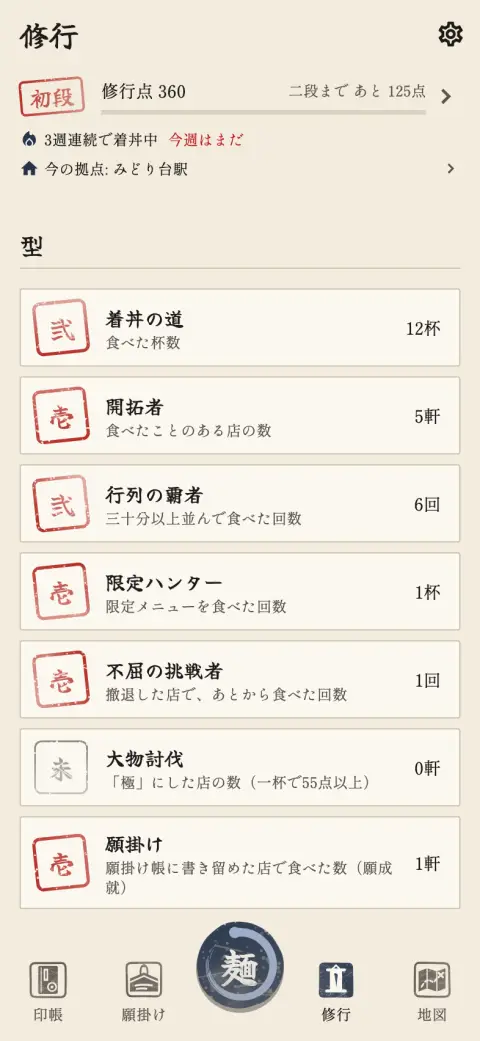
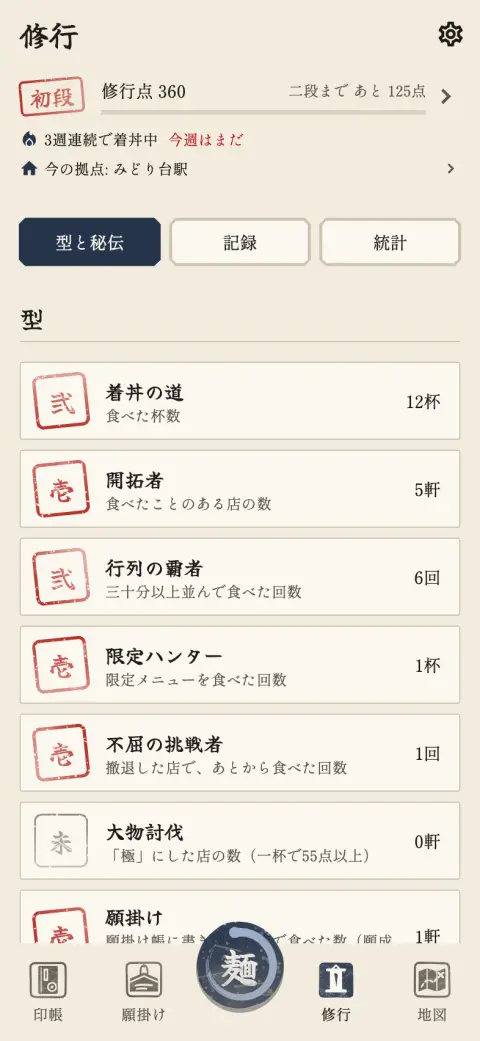
修行タブを段位と「型と秘伝｜記録｜統計」の切り替えにまとめる (#353)
* 修行タブを段位と「型と秘伝｜記録｜統計」の切り替えにまとめる

* セルフレビューの指摘を直す（選んだものを覚える範囲・使い方の題・部品を非公開に）

---------

diff --git a/lib/features/shugyo/shugyo_screen.dart b/lib/features/shugyo/shugyo_screen.dart
@@ -17,17 +17,24 @@ import '../streak/streak_line.dart';
 import '../analytics/analytics.dart';
 import '../analytics/analytics_events.dart';
 
-/// 修行の記録をひとまとめにした画面。段位 → 型と秘伝 → 数字の順に並べ、設定は右上の歯車から開く。
-class ShugyoScreen extends ConsumerWidget {
+/// 修行タブの下半分に出すもの。切り替えで1つだけを出す。
+enum _Section { quests, records, stats }
+
+/// 修行の記録をひとまとめにした画面。上に段位と、小さく連続記録・拠点。その下の切り替えで
+/// 型と秘伝・記録・統計のどれか1つを出す（画面は移らない）。選んだものは、アプリを開いている間だけ覚える。設定は右上の歯車から開く。
+class ShugyoScreen extends ConsumerStatefulWidget {
   const ShugyoScreen({super.key});
 
   @override
-  Widget build(BuildContext context, WidgetRef ref) {
-    final l10n = AppLocalizations.of(context);
-    void open(Widget screen) =>
-        Navigator.of(context)
-            .push(MaterialPageRoute<void>(builder: (_) => screen));
+  ConsumerState<ShugyoScreen> createState() => _ShugyoScreenState();
+}
 
+class _ShugyoScreenState extends ConsumerState<ShugyoScreen> {
+  var _section = _Section.quests;
+
+  @override
+  Widget build(BuildContext context) {
+    final l10n = AppLocalizations.of(context);
     return Scaffold(
       appBar: AppBar(
         title: Text(l10n.shugyoTitle),
@@ -41,30 +48,89 @@ class ShugyoScreen extends ConsumerWidget {
             rank: ref.watch(currentRankProvider),
           ),
           const StreakLine(),
-          const HealthyLifeCard(),
           const HomeBaseLine(),
-          const SizedBox(height: 24),
-          const QuestSections(),
-          const SizedBox(height: 32),
-          SectionTitle(l10n.shugyorokuTitle),
-          ListTile(
-            contentPadding: EdgeInsets.zero,
-            title: Text(l10n.shugyorokuOpen),
-            trailing: const Icon(Icons.chevron_right),
-            onTap: () {
-              logAnalytics(
-                context,
-                AnalyticsEvents.featureOpened('shugyoroku'),
-              );
-              open(const ShugyorokuScreen());
-            },
+          const SizedBox(height: 20),
+          _SectionSwitch(
+            selected: _section,
+            onSelected: (section) => setState(() => _section = section),
           ),
-          const PrefectureBookEntry(),
-          const YearReviewEntry(),
-          const SizedBox(height: 32),
-          const StatsSections(),
+          const SizedBox(height: 16),
+          switch (_section) {
+            _Section.quests => const QuestSections(),
+            _Section.records => const _RecordsSection(),
+            _Section.stats => const StatsSections(),
+          },
         ],
       ),
+    );
+  }
+}
+
+/// 「型と秘伝｜記録｜統計」の切り替え。選ぶ札（角を落とした木札）を同じ幅で横に並べる。
+class _SectionSwitch extends StatelessWidget {
+  const _SectionSwitch({required this.selected, required this.onSelected});
+
+  final _Section selected;
+  final ValueChanged<_Section> onSelected;
+
+  @override
+  Widget build(BuildContext context) {
+    final l10n = AppLocalizations.of(context);
+    return Row(
+      children: [
+        for (final (i, section) in _Section.values.indexed) ...[
+          if (i > 0) const SizedBox(width: 8),
+          Expanded(
+            child: ChoiceChip(
+              label: SizedBox(
+                width: double.infinity,
+                child: Text(
+                  switch (section) {
+                    _Section.quests => l10n.shugyoSectionQuests,
+                    _Section.records => l10n.shugyoSectionRecords,
+                    _Section.stats => l10n.shugyoSectionStats,
+                  },
+                  textAlign: TextAlign.center,
+                  maxLines: 1,
+                  overflow: TextOverflow.ellipsis,
+                ),
+              ),
+              selected: section == selected,
+              onSelected: (_) => onSelected(section),
+            ),
+          ),
+        ],
+      ],
+    );
+  }
+}
+
+/// 記録: 修行録・都道府県の印帳・年の振り返り・（出現していれば）毎日ラーメン健康生活。
+class _RecordsSection extends StatelessWidget {
+  const _RecordsSection();
+
+  @override
+  Widget build(BuildContext context) {
+    final l10n = AppLocalizations.of(context);
+    return Column(
+      crossAxisAlignment: CrossAxisAlignment.stretch,
+      children: [
+        SectionTitle(l10n.shugyorokuTitle),
+        ListTile(
+          contentPadding: EdgeInsets.zero,
+          title: Text(l10n.shugyorokuOpen),
+          trailing: const Icon(Icons.chevron_right),
+          onTap: () {
+            logAnalytics(context, AnalyticsEvents.featureOpened('shugyoroku'));
+            Navigator.of(context).push(
+              MaterialPageRoute<void>(builder: (_) => const ShugyorokuScreen()),
+            );
+          },
+        ),
+        const PrefectureBookEntry(),
+        const YearReviewEntry(),
+        const HealthyLifeCard(),
+      ],
     );
   }
 }

diff --git a/test/features/shugyo/shugyo_screen_test.dart b/test/features/shugyo/shugyo_screen_test.dart
@@ -1,0 +1,89 @@
+import 'package:flutter/material.dart';
+import 'package:flutter_riverpod/flutter_riverpod.dart';
+import 'package:flutter_test/flutter_test.dart';
+
+import 'package:ramen_in_cho/features/home_base/home_base_repository.dart';
+import 'package:ramen_in_cho/features/quests/quest_history_screen.dart';
+import 'package:ramen_in_cho/features/records/models.dart';
+import 'package:ramen_in_cho/features/records/record_repository.dart';
+import 'package:ramen_in_cho/features/scoring/rank_history_screen.dart';
+import 'package:ramen_in_cho/features/scoring/rank_progress.dart';
+import 'package:ramen_in_cho/features/shugyo/shugyo_screen.dart';
+import 'package:ramen_in_cho/features/wishes/wish_repository.dart';
+
+import '../../support/builders.dart';
+import '../../support/l10n.dart';
+
+void main() {
+  Future<void> pumpShugyo(
+    WidgetTester tester,
+    List<VisitWithShop> visits,
+  ) async {
+    tester.view.physicalSize = const Size(1080, 4800);
+    tester.view.devicePixelRatio = 2.5;
+    addTearDown(tester.view.reset);
+    await tester.pumpWidget(
+      ProviderScope(
+        overrides: [
+          visitsProvider.overrideWithValue(AsyncData(visits)),
+          homeBaseSettingsProvider.overrideWithValue(const AsyncData([])),
+          wishesProvider.overrideWithValue(const AsyncData([])),
+        ],
+        child: localizedApp(home: const ShugyoScreen()),
+      ),
+    );
+    await tester.pumpAndSettle();
+  }
+
+  final shop = buildShop(id: 'shop', name: '麺屋テスト');
+  final visits = [
+    for (var d = 1; d <= 6; d++)
+      buildEntry(shop: shop, eatenAt: DateTime(2026, 9, d, 12)),
+  ];
+
+  testWidgets('初めは型と秘伝を出し、切り替えで記録・統計だけを出す', (tester) async {
+    await pumpShugyo(tester, visits);
+
+    expect(find.text('着丼の道'), findsOneWidget);
+    expect(find.text(ja.shugyorokuOpen), findsNothing);
+    expect(find.text(ja.statsBowls), findsNothing);
+
+    await tester.tap(find.text(ja.shugyoSectionRecords));
+    await tester.pumpAndSettle();
+    expect(find.text('着丼の道'), findsNothing);
+    expect(find.text(ja.shugyorokuOpen), findsOneWidget);
+    expect(find.text(ja.statsBowls), findsNothing);
+    // 毎日ラーメン健康生活は、7日続けるまで姿を見せない。
+    expect(find.text(ja.healthyLifeTitle), findsNothing);
+
+    await tester.tap(find.text(ja.shugyoSectionStats));
+    await tester.pumpAndSettle();
+    expect(find.text(ja.shugyorokuOpen), findsNothing);
+    expect(find.text(ja.statsBowls), findsOneWidget);
+  });
+
+  testWidgets('7日続けて食べたら、記録に毎日ラーメン健康生活を出す', (tester) async {
+    await pumpShugyo(tester, [
+      for (var d = 1; d <= 7; d++)
+        buildEntry(shop: shop, eatenAt: DateTime(2026, 9, d, 12)),
+    ]);
+    expect(find.text(ja.healthyLifeTitle), findsNothing);
+    await tester.tap(find.text(ja.shugyoSectionRecords));
+    await tester.pumpAndSettle();
+    expect(find.text(ja.healthyLifeTitle), findsOneWidget);
+  });
+
+  testWidgets('段位を押すと昇段の記録、型のカードを押すとこれまでの段が開く', (tester) async {
+    await pumpShugyo(tester, visits);
+
+    await tester.tap(find.text('着丼の道'));
+    await tester.pumpAndSettle();
+    expect(find.byType(QuestHistoryScreen), findsOneWidget);
+    tester.state<NavigatorState>(find.byType(Navigator).first).pop();
+    await tester.pumpAndSettle();
+
+    await tester.tap(find.byType(RankProgress));
+    await tester.pumpAndSettle();
+    expect(find.byType(RankHistoryScreen), findsOneWidget);
+  });
+}

diff --git a/lib/l10n/app_localizations.dart b/lib/l10n/app_localizations.dart
@@ -2764,6 +2764,24 @@ abstract class AppLocalizations {
   /// **'修行'**
   String get shugyoTitle;
 
+  /// No description provided for @shugyoSectionQuests.
+  ///
+  /// In ja, this message translates to:
+  /// **'型と秘伝'**
+  String get shugyoSectionQuests;
+
+  /// No description provided for @shugyoSectionRecords.
+  ///
+  /// In ja, this message translates to:
+  /// **'記録'**
+  String get shugyoSectionRecords;
+
+  /// No description provided for @shugyoSectionStats.
+  ///
+  /// In ja, this message translates to:
+  /// **'統計'**
+  String get shugyoSectionStats;
+
   /// No description provided for @healthyLifeTitle.
   ///
   /// In ja, this message translates to:
@@ -3367,7 +3385,7 @@ abstract class AppLocalizations {
   /// No description provided for @helpShugyoTitle.
   ///
   /// In ja, this message translates to:
-  /// **'修行タブ（段位・型と秘伝・修行録）'**
+  /// **'修行タブ（段位・型と秘伝・記録・統計）'**
   String get helpShugyoTitle;
 
   /// No description provided for @helpShugyoRank.
@@ -3379,13 +3397,13 @@ abstract class AppLocalizations {
   /// No description provided for @helpShugyoQuests.
   ///
   /// In ja, this message translates to:
-  /// **'型と秘伝には、続けるほど上がる型と、会得した秘伝の印が並びます。'**
+  /// **'段位の下の切り替えで「型と秘伝」「記録」「統計」を選べます。型と秘伝には、続けるほど上がる型と、会得した秘伝の印が並びます。'**
   String get helpShugyoQuests;
 
   /// No description provided for @helpShugyoroku.
   ///
   /// In ja, this message translates to:
-  /// **'修行録では、一年分の一杯を月ごとの章にして、本のように読み返せます。'**
+  /// **'「記録」の修行録では、一年分の一杯を月ごとの章にして、本のように読み返せます。'**
   String get helpShugyoroku;
 
   /// No description provided for @helpShareTitle.

diff --git a/lib/l10n/app_localizations_ja.dart b/lib/l10n/app_localizations_ja.dart
@@ -1547,6 +1547,15 @@ class AppLocalizationsJa extends AppLocalizations {
   String get shugyoTitle => '修行';
 
   @override
+  String get shugyoSectionQuests => '型と秘伝';
+
+  @override
+  String get shugyoSectionRecords => '記録';
+
+  @override
+  String get shugyoSectionStats => '統計';
+
+  @override
   String get healthyLifeTitle => '毎日ラーメン健康生活';
 
   @override
@@ -1895,16 +1904,17 @@ class AppLocalizationsJa extends AppLocalizations {
   String get helpHomeBase => 'ふだん暮らす駅や街を拠点にします。設定の「拠点」からいつでも変えられます。';
 
   @override
-  String get helpShugyoTitle => '修行タブ（段位・型と秘伝・修行録）';
+  String get helpShugyoTitle => '修行タブ（段位・型と秘伝・記録・統計）';
 
   @override
   String get helpShugyoRank => '修行タブの上では、今の段位と次の段位までが見られます。タップすると昇段の記録が開きます。';
 
   @override
-  String get helpShugyoQuests => '型と秘伝には、続けるほど上がる型と、会得した秘伝の印が並びます。';
+  String get helpShugyoQuests =>
+      '段位の下の切り替えで「型と秘伝」「記録」「統計」を選べます。型と秘伝には、続けるほど上がる型と、会得した秘伝の印が並びます。';
 
   @override
-  String get helpShugyoroku => '修行録では、一年分の一杯を月ごとの章にして、本のように読み返せます。';
+  String get helpShugyoroku => '「記録」の修行録では、一年分の一杯を月ごとの章にして、本のように読み返せます。';
 
   @override
   String get helpShareTitle => '共有';

diff --git a/test/widget_test.dart b/test/widget_test.dart
@@ -139,7 +139,8 @@ void main() {
 
     expect(find.text(ja.questStanding), findsOneWidget);
     expect(find.text('着丼の道'), findsOneWidget);
-    await tester.scrollUntilVisible(find.text(ja.statsEmpty), 300);
+    await tester.tap(find.text(ja.shugyoSectionStats));
+    await tester.pumpAndSettle();
     expect(find.text(ja.statsEmpty), findsOneWidget);
     expect(find.byType(MapScreen), findsNothing);
 

diff --git a/docs/decisions/2026-10-08-shugyo-sections.md b/docs/decisions/2026-10-08-shugyo-sections.md
@@ -1,0 +1,6 @@
+# 修行タブを「段位＋切り替え（型と秘伝｜記録｜統計）」にする
+
+- 日付: 2026-10-08
+- 決定: 修行タブのいちばん上は段位（押すと昇段の記録）、その下に小さく連続記録と拠点だけを出す。その下に「型と秘伝｜記録｜統計」の切り替えを置き、選んだものだけを下に出す（画面は移らない）。記録には修行録・都道府県の印帳・年の振り返りと、出現していれば毎日ラーメン健康生活の最高記録を入れる（段位の下からは外した）。切り替えは選ぶ札（角を落とした木札）を同じ幅で3つ並べる。選んだものはアプリを開いている間だけ覚え（ほかのタブから戻っても同じものが出る）、アプリを開き直すと型と秘伝から始める
+- 理由: 縦に長く並んでいて、見たいものまで遠かったため（利用者の判断）。アプリを開き直しても覚えておくのは、あとから足せる小さな便利さなので見送った
+- 関連: #349, #309
